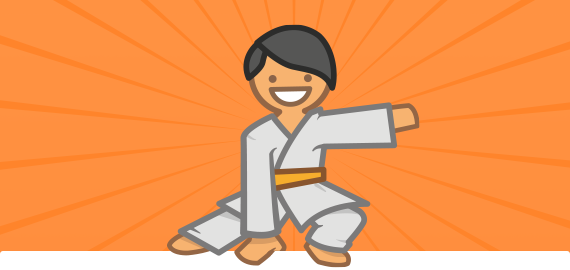
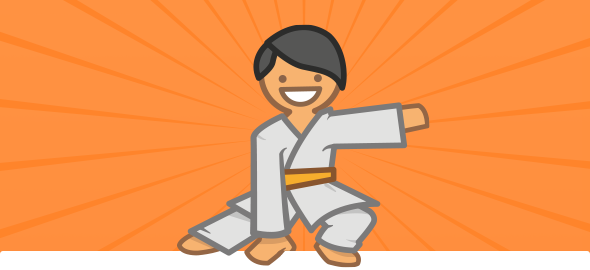
More functional changes and new images

diff --git a/kano_init_flow/internet_screen.py b/kano_init_flow/internet_screen.py
@@ -10,10 +10,12 @@
 
 import sys
 from template import Template
+from settings_intro_screen import SettingsIntroScreen
 import kano_init_flow.constants as constants
 
 
 class InternetScreen():
+
     def __init__(self, win):
 
         self.win = win
@@ -29,3 +31,53 @@ class InternetScreen():
         exit_code = self.template.exit_codes["launch_wifi"]
         sys.exit(exit_code)
 
+    def skip(self, widget, event):
+        for child in self.win:
+            self.win.remove(child)
+
+        NoInternetScreen(self.win)
+
+
+class NoInternetScreen():
+
+    def __init__(self, win):
+
+        self.win = win
+        header = "No internet?"
+        subheader = "Try again, or connect later. You need internet for most of Kano's cool powers."
+        image = constants.media + "/no_internet.png"
+        self.template = Template(image, header, subheader, "TRY AGAIN", "Connect Later")
+        self.win.add(self.template)
+        self.template.kano_button.connect("button_release_event", self.launch_wifi_config)
+        self.template.orange_button.connect("button_release_event", self.next_screen)
+        self.win.show_all()
+
+    def launch_wifi_config(self, widget, event):
+        exit_code = self.template.exit_codes["launch_wifi"]
+        sys.exit(exit_code)
+
+    def next_screen(self, widget, event):
+        for child in self.win:
+            self.win.remove(child)
+
+        OfflineScreen(self.win)
+
+
+class OfflineScreen():
+
+    def __init__(self, win):
+
+        self.win = win
+        header = "Internet trouble? We can help!"
+        subheader = "Kano is coolest when it's online. Go to http://help.kano.me and we''l help you."
+        image = constants.media + "/internet_trouble.png"
+        self.template = Template(image, header, subheader, "PLAY OFFLINE", "")
+        self.win.add(self.template)
+        self.template.kano_button.connect("button_release_event", self.skip)
+        self.win.show_all()
+
+    def skip(self, widget, event):
+        for child in self.win:
+            self.win.remove(child)
+
+        SettingsIntroScreen(self.win)

diff --git a/kano_init_flow/update_screen.py b/kano_init_flow/update_screen.py
@@ -22,20 +22,15 @@ class UpdateScreen():
         self.win = win
 
         # check internet
-        if is_internet():
-            network = self.network_info()
-            header = "You are connected to %s- Now let's update!" % network
-            subheader = "Updating takes about 10 minutes."
-            image = constants.media + "/update.png"
-            self.template = Template(image, header, subheader, "UPDATE NOW!", "")
-            self.template.kano_button.connect("button_release_event", self.launch_updater)
-        else:
-            header = "No internet?"
-            subheader = "Try again, or connect later. You need internet for most of Kano's cool powers."
-            image = constants.media + "/no_internet.png"
-            self.template = Template(image, header, subheader, "TRY AGAIN", "Connect Later")
-            self.template.kano_button.connect("button_release_event", self.launch_wifi_config)
-            self.template.orange_button.connect("button_release_event", self.next_screen)
+        if not is_internet():
+            self.next_screen()
+
+        network = self.network_info()
+        header = "You are connected to %s- Now let's update!" % network
+        subheader = "Updating takes about 10 minutes."
+        image = constants.media + "/update.png"
+        self.template = Template(image, header, subheader, "UPDATE NOW!", "")
+        self.template.kano_button.connect("button_release_event", self.launch_updater)
 
         self.win.add(self.template)
         self.win.show_all()
@@ -44,11 +39,7 @@ class UpdateScreen():
         exit_code = self.template.exit_codes["launch_updater"]
         sys.exit(exit_code)
 
-    def launch_wifi_config(self, widget, event):
-        exit_code = self.template.exit_codes["launch_wifi"]
-        sys.exit(exit_code)
-
-    def next_screen(self, widget, event):
+    def next_screen(self):
         for child in self.win:
             self.win.remove(child)
 

diff --git a/kano_init_flow/settings_intro_screen.py b/kano_init_flow/settings_intro_screen.py
@@ -10,6 +10,7 @@
 
 from template import Template
 from display_screen import DisplayScreen
+import kano_init_flow.constants as constants
 
 
 class SettingsIntroScreen():
@@ -17,10 +18,9 @@ class SettingsIntroScreen():
 
         self.win = win
 
-        # check internet
         header = "You have the power!"
         subheader = "Update successful! Now let's test out your powers."
-        self.template = Template("../media/images/image_3.png", header, subheader, "TEST SOUND", "")
+        self.template = Template(constants.media + "/update_successful.png", header, subheader, "TEST SOUND", "")
         self.template.kano_button.connect("button_release_event", self.activate)
         self.win.add(self.template)
 

diff --git a/kano_init_flow/swag_screen.py b/kano_init_flow/swag_screen.py
@@ -10,6 +10,7 @@
 
 import sys
 from template import Template
+import kano_init_flow.constants as constants
 
 
 class SwagScreen():
@@ -18,7 +19,7 @@ class SwagScreen():
         self.win = win
         header = "Swag time!"
         subheader = "As you play, you win! You unlocked a new badge, background and levelled up!"
-        self.template = Template("../media/images/image_1.png", header, subheader, "TO THE DESKTOP", "")
+        self.template = Template(constants.media + "/swag.png", header, subheader, "TO THE DESKTOP", "")
         self.win.add(self.template)
         self.template.kano_button.connect("button_release_event", self.activate)
         self.win.show_all()

diff --git a/kano_init_flow/audio_screen.py b/kano_init_flow/audio_screen.py
@@ -146,7 +146,7 @@ class TvSpeakersScreen():
 
         header = "Let's switch to the TV speakers"
         subheader = "If you are using a TV with speakers, click the button below"
-        self.template = Template("../media/images/image_5.png", header, subheader, "USE TV SPEAKERS", "Setup Later")
+        self.template = Template(constants.media + "/tv-speakers.png", header, subheader, "USE TV SPEAKERS", "Setup Later")
         self.template.kano_button.connect("button_release_event", self.setup_hdmi)
         self.template.orange_button.connect("button_release_event", self.go_to_next)
         self.win.add(self.template)
